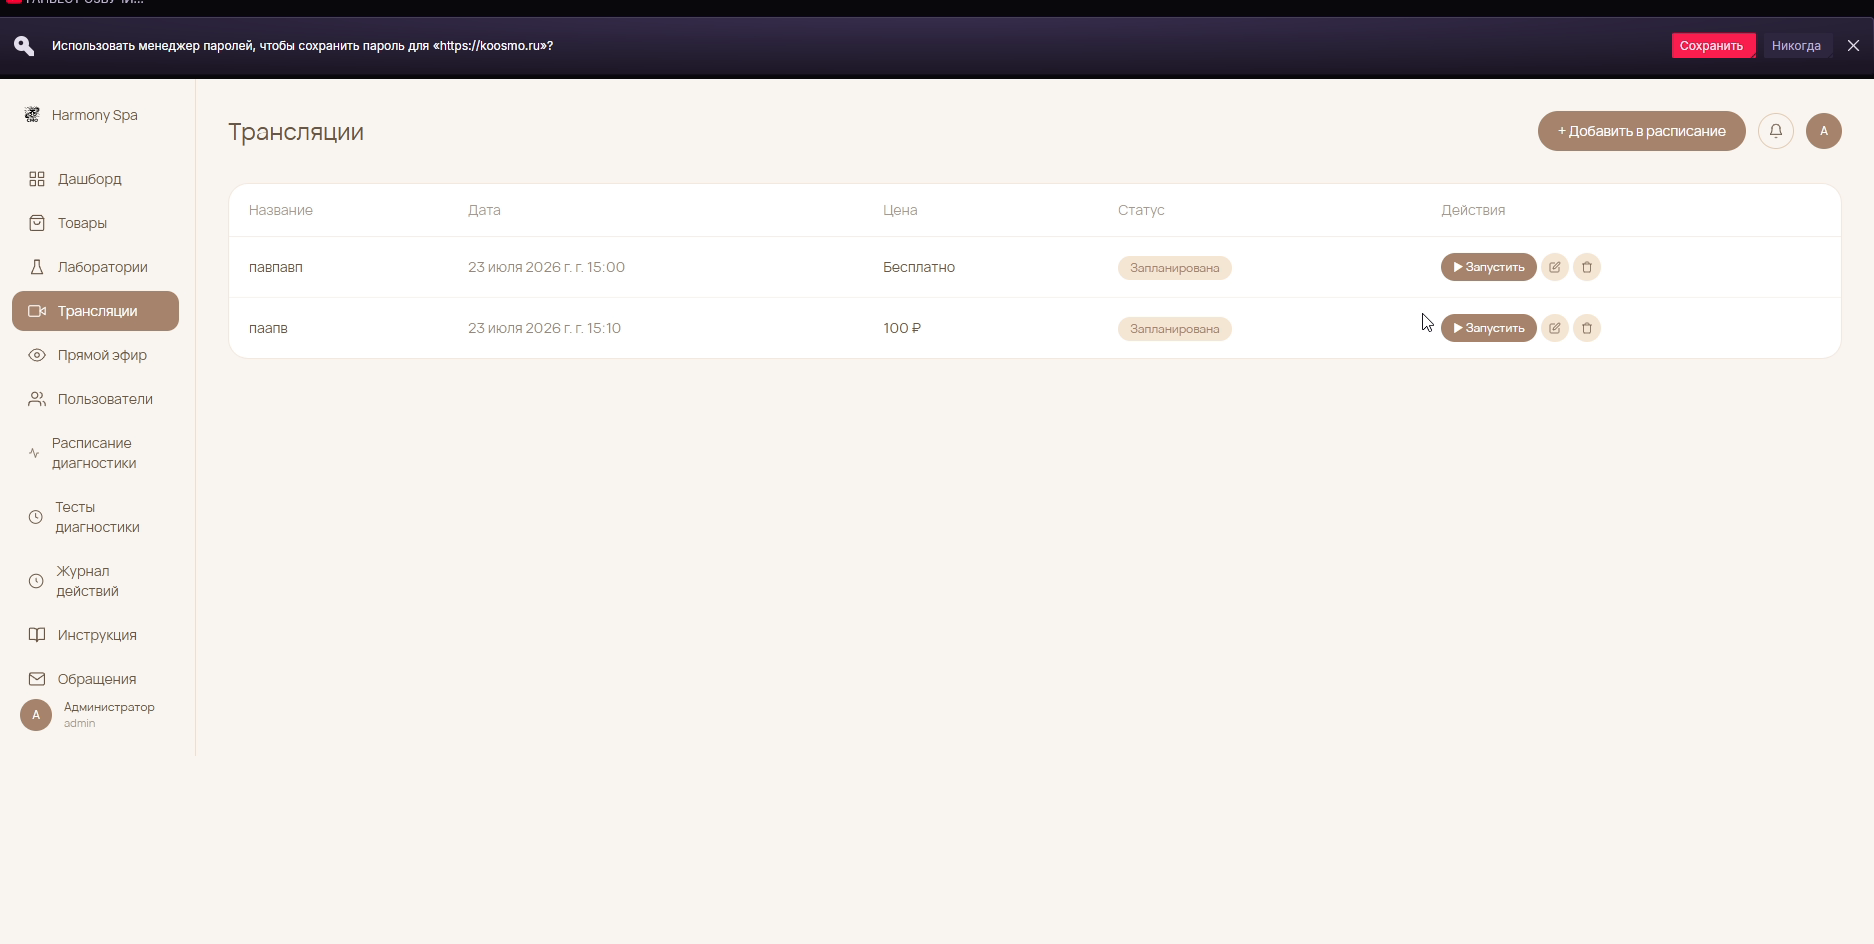
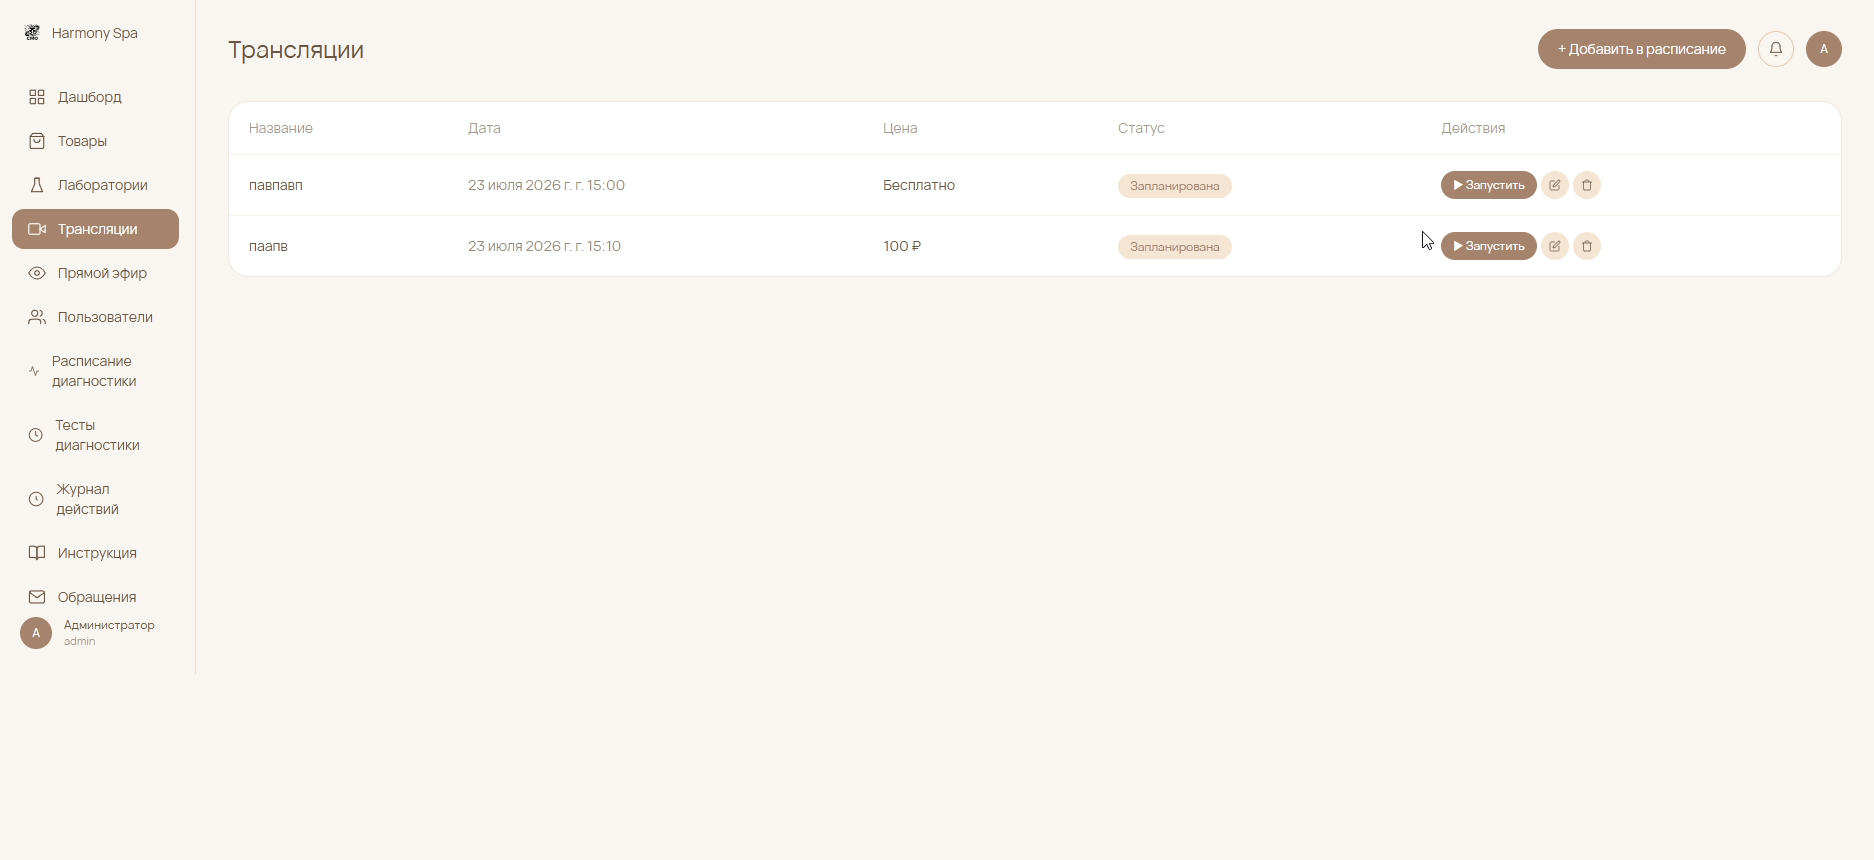
Koosmo cover + drop black letterboxing on slide shots
- Singing-bowl cover art for the Koosmo card.
- Shot frames: was contain on a dark panel — produced empty black
  fields around every screenshot. Now natural fill (cover, top-anchored)
  on the site's light card bg — the frame hugs the image.
- Inbox motion gets per-case header/caption/icon: Koosmo shows
  "Записи · экосистема сайта" (no Telegram — everything lives inside
  the platform); RAMCY/Yaruska/Hawaii keep the Telegram look.
- admin.png recropped to remove the browser's password-manager banner.

Generated with [Devin](https://devin.ai)

diff --git a/src/components/ui/case-motion.tsx b/src/components/ui/case-motion.tsx
@@ -11,6 +11,8 @@ export interface CaseMotionProps {
   kind: CaseMotionKind;
   chat?: { botName: string; u1: string; b1: string; u2: string; b2: string; sent: string };
   items?: { src: string; text: string }[];
+  inboxTitle?: string; // header of the rotating inbox — e.g. "Telegram · входящие"
+  inboxCaption?: string; // caption under the slot — e.g. "всё падает в один чат"
   bars?: { old: string; new: string };
   order?: { b: string; t: string }[];
   report?: {
@@ -86,7 +88,7 @@ function Gauge({ score, label }: { score: number; label: string }) {
   );
 }
 
-export function CaseMotion({ kind, chat, items, bars, order, report }: CaseMotionProps) {
+export function CaseMotion({ kind, chat, items, inboxTitle, inboxCaption, bars, order, report }: CaseMotionProps) {
   if (kind === "chats") {
     return (
       <div className="cm cm-chats" aria-hidden="true">
@@ -127,13 +129,17 @@ export function CaseMotion({ kind, chat, items, bars, order, report }: CaseMotio
     return (
       <div className="cm cm-tg" aria-hidden="true">
         <div className="cm-tg__head">
-          <svg viewBox="0 0 24 24" width="13" height="13" fill="none" aria-hidden="true">
-            <path
-              d="M21.4 4.3 3.7 11.2c-.9.4-.9 1.7.1 2l4.5 1.5 1.7 5.1c.3.9 1.5 1 2 .2l2.4-3.1 4.8 3.5c.8.6 1.9.2 2.1-.8l2.5-13.7c.2-1-.7-1.8-1.7-1.5Z"
-              fill="#00a8b0"
-            />
-          </svg>
-          Telegram · входящие
+          {inboxTitle ? (
+            <i className="cm-online" />
+          ) : (
+            <svg viewBox="0 0 24 24" width="13" height="13" fill="none" aria-hidden="true">
+              <path
+                d="M21.4 4.3 3.7 11.2c-.9.4-.9 1.7.1 2l4.5 1.5 1.7 5.1c.3.9 1.5 1 2 .2l2.4-3.1 4.8 3.5c.8.6 1.9.2 2.1-.8l2.5-13.7c.2-1-.7-1.8-1.7-1.5Z"
+                fill="#00a8b0"
+              />
+            </svg>
+          )}
+          {inboxTitle ?? "Telegram · входящие"}
         </div>
         <div className="cm-tg__win">
           {items.map((it, i) => (
@@ -143,7 +149,7 @@ export function CaseMotion({ kind, chat, items, bars, order, report }: CaseMotio
             </div>
           ))}
         </div>
-        <span className="cm-cap">всё падает в один чат</span>
+        <span className="cm-cap">{inboxCaption ?? "всё падает в один чат"}</span>
       </div>
     );
   }

diff --git a/src/data/cases.ts b/src/data/cases.ts
@@ -38,6 +38,10 @@ export interface CaseStoryStep {
   chat?: { botName: string; u1: string; b1: string; u2: string; b2: string; sent: string };
   /** rotating entries for motion "inbox" */
   inboxItems?: { src: string; text: string }[];
+  /** header label of the inbox motion — defaults to "Telegram · входящие" */
+  inboxTitle?: string;
+  /** caption under the inbox slot — defaults to "всё падает в один чат" */
+  inboxCaption?: string;
   /** before/after labels for motion "bars" */
   barLabels?: { old: string; new: string };
   /** chain rows for motion "order" — label + detail, each gets a ✓ */
@@ -333,6 +337,7 @@ export const CASES: CaseStudy[] = [
     year: 2026,
     teaser:
       "Больше тридцати страниц: витрина, магазин видеокурсов самомассажа, собственный блок прямых эфиров, видео-приёмы психолога и массажиста по расписанию, личный кабинет и админка.",
+    cover: "/cases/koosmo/cover.jpg",
     hero: "/cases/koosmo/hero.png",
     url: "https://koosmo.ru",
     metrics: [
@@ -394,6 +399,8 @@ export const CASES: CaseStudy[] = [
         text: "Через расписание клиент записывается на онлайн-приём к психологу — встреча проходит по видеоконференции внутри платформы, на консультацию массажиста по видео или на живую терапию в центре. Администратор в панели управляет всем этим хозяйством: трансляции и их цены, товары, лабораторию, пользователей, тесты диагностики и журнал действий.",
         shot: "/cases/koosmo/admin.png",
         motion: "inbox",
+        inboxTitle: "Записи · экосистема сайта",
+        inboxCaption: "всё остаётся внутри платформы",
         inboxItems: [
           { src: "сайт", text: "Психолог · чт 19:00 · видеозвонок" },
           { src: "сайт", text: "Массажист · сб 12:00 · видеоконсультация" },

diff --git a/src/styles/global.css b/src/styles/global.css
@@ -2368,14 +2368,16 @@ a.cs-card:focus-visible {
   border: 1px solid var(--color-line);
   border-radius: var(--r-card);
   overflow: hidden;
-  background: #0d0f12;
+  background: rgba(255, 255, 255, 0.5);
   cursor: zoom-in;
 }
 .case-step__shot img {
   display: block;
   width: 100%;
-  max-height: 60vh;
-  object-fit: contain;
+  height: auto;
+  max-height: 64vh;
+  object-fit: cover;
+  object-position: 50% 0;
 }
 @media (min-width: 1024px) {
   html.has-case-slides {
@@ -2390,11 +2392,7 @@ a.cs-card:focus-visible {
     scroll-snap-align: start;
   }
   .case-step__shot img {
-    max-height: none;
-    aspect-ratio: 16 / 11;
-    padding: 18px;
-    box-sizing: border-box;
-    object-fit: contain;
+    max-height: 68vh;
   }
 }
 

diff --git a/src/components/pages/CasePage.tsx b/src/components/pages/CasePage.tsx
@@ -242,6 +242,8 @@ export default function CasePage({ slug }: { slug: string }) {
                         kind={s.motion}
                         chat={s.chat}
                         items={s.inboxItems}
+                        inboxTitle={s.inboxTitle}
+                        inboxCaption={s.inboxCaption}
                         bars={s.barLabels}
                         order={s.order}
                       />
